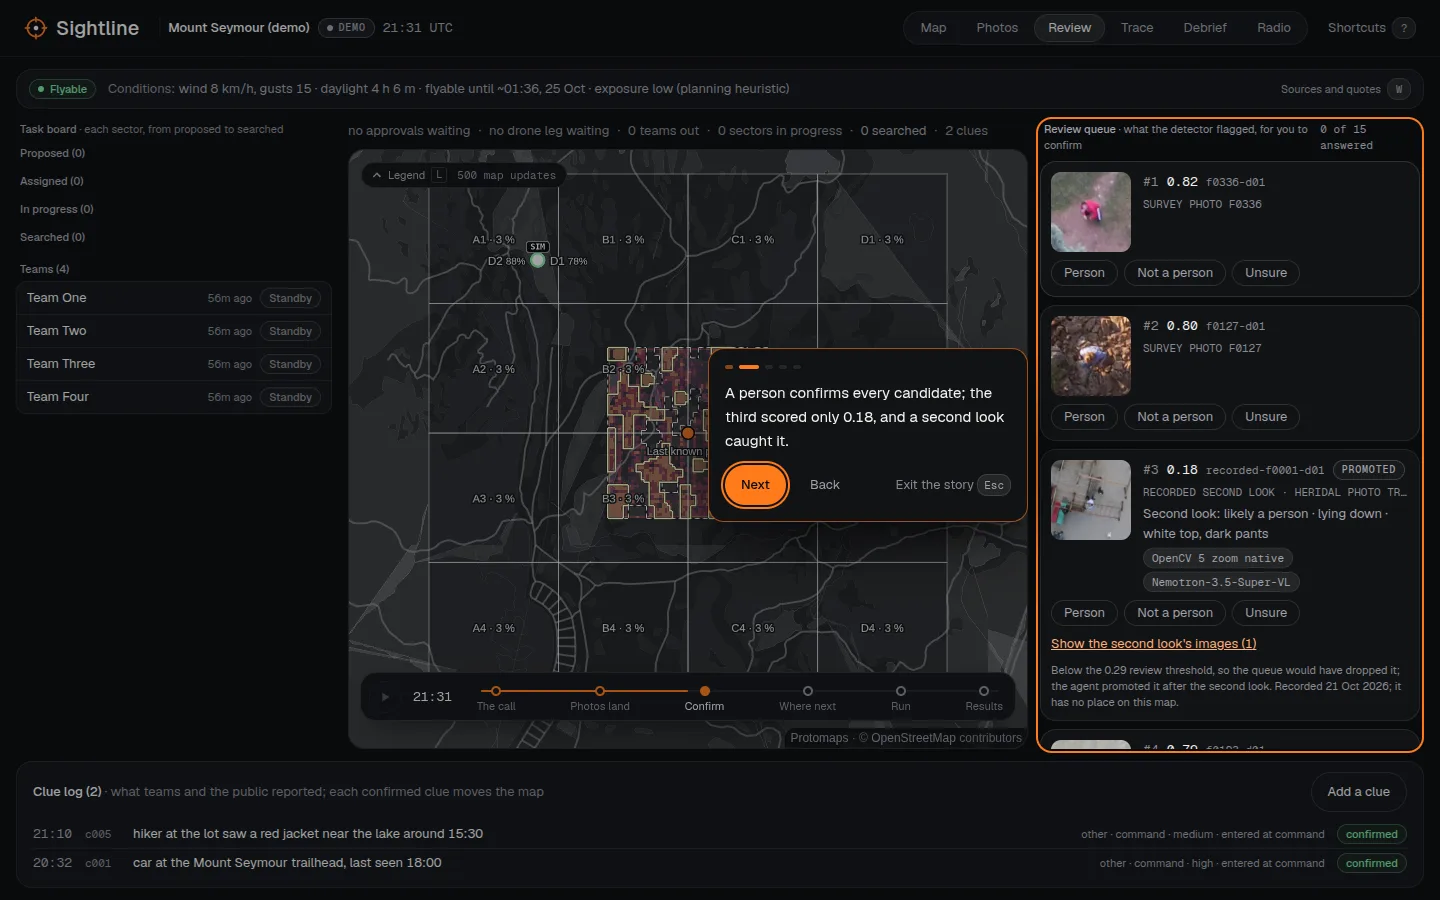
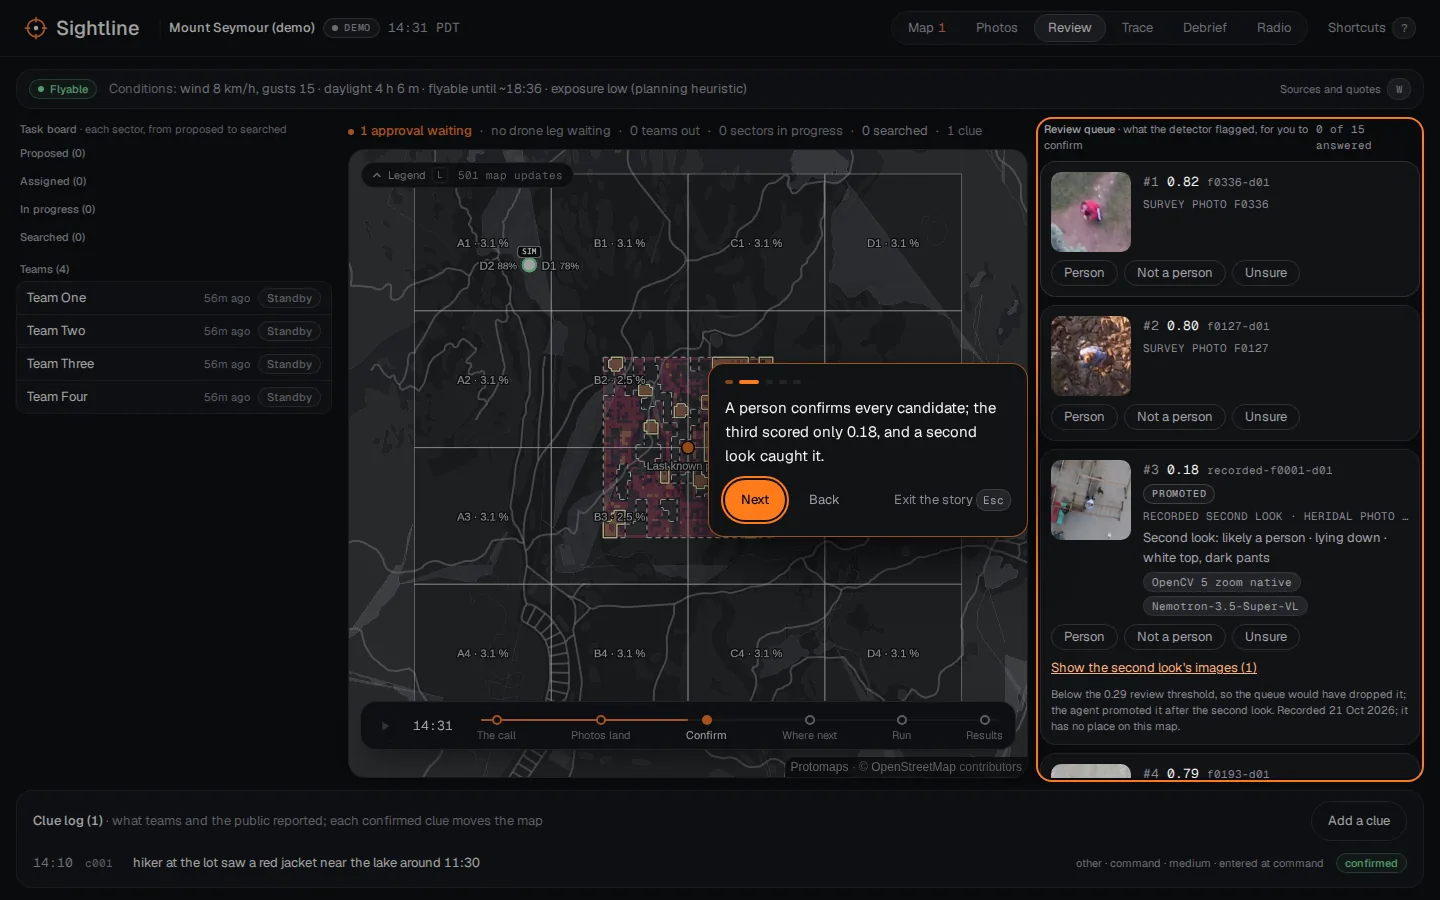
Retake the one-console screenshots and the Devpost gallery
Local time in the app bar, the clues on the t3 map, the demo's own trace, the Debrief's caveats, one
verdict chip in the Conditions panel. render_gallery.py opens the recorded av-chain's model step, now
below the demo mission's own trace; the gallery captions give PDT.

diff --git a/docs/submission/figures/render_gallery.py b/docs/submission/figures/render_gallery.py
@@ -37,7 +37,10 @@ def t2_card(page: Page) -> None:
 
 
 def trace_chain(page: Page) -> None:
-    page.locator("li[aria-label^=Model] button").first.click()
+    # the recorded av-chain run (Nemotron VL on a val photo), below the demo mission's own trace
+    chain = page.get_by_role("article", name="Chain f0001-d01 · v0001 · p001")
+    chain.locator("li[aria-label^=Model] button").first.click()
+    chain.evaluate("(e) => e.scrollIntoView({ block: 'start' })")
 
 
 def t4_conditions(page: Page) -> None:

diff --git a/docs/submission/figures/README.md b/docs/submission/figures/README.md
@@ -7,11 +7,11 @@ models on Token Factory).
 
 | File | Devpost caption | Source (`render_gallery.py`) |
 |---|---|---|
-| `console-t0-the-call-pitch-bar.png` | O1, N1: the console at 20:35, the call, with the pitch bar | `#m/demo?t=0` (the landing; t0 has no coach mark) |
-| `photos-land-t1-each-photo-ranked-and-placed.png` | O2, N2: 21:18, the 500 photos land and are placed; 14 candidates | `#m/demo?t=1`, then Esc (the coach mark away; the Photos rail stays) |
-| `second-look-t2-a-018-candidate-opencv5-zoom-nemotron-vl.png` | O3, N3: 21:31, the 0.18 candidate's card with its OpenCV 5 and Nemotron VL chips, the zoom open | `#m/demo?t=2`, Esc, then "Show the second look's images" |
-| `trace-which-model-did-what-second-look.png` | O4, N4: the Trace view on that chain (the recorded av-chain run), the model step open | `#m/demo/trace?t=2`, then the Model step opened |
-| `run-t4-fleet-flying-b4-pod-60-conditions.png` | O5, N5: 22:00, the fleet flying, B4 at POD 60 %, the Conditions panel open | `#m/demo?t=4`, Esc, then `W` |
+| `console-t0-the-call-pitch-bar.png` | O1, N1: the console at 13:35 PDT (20:35 UTC), the call, with the pitch bar | `#m/demo?t=0` (the landing; t0 has no coach mark) |
+| `photos-land-t1-each-photo-ranked-and-placed.png` | O2, N2: 14:18 PDT, the 500 photos land and are placed; 14 candidates | `#m/demo?t=1`, then Esc (the coach mark away; the Photos rail stays) |
+| `second-look-t2-a-018-candidate-opencv5-zoom-nemotron-vl.png` | O3, N3: 14:31 PDT, the 0.18 candidate's card with its OpenCV 5 and Nemotron VL chips, the zoom open | `#m/demo?t=2`, Esc, then "Show the second look's images" |
+| `trace-which-model-did-what-second-look.png` | O4, N4: the Trace view on that chain (the recorded av-chain run, below the demo mission's own trace), the model step open | `#m/demo/trace?t=2`, then the Model step opened |
+| `run-t4-fleet-flying-b4-pod-60-conditions.png` | O5, N5: 15:00 PDT, the fleet flying, B4 at POD 60 %, the Conditions panel open | `#m/demo?t=4`, Esc, then `W` |
 | `debrief-t5-three-numbers-what-breaks-first.png` | O6, N6: the Debrief's three numbers and what breaks first | `#m/demo?t=5`, Esc; "How much looking it saves" (between the two in the app) is left out of this frame so both fit |
 
 Extras, not in either gallery now (taken before the one console, #171):
